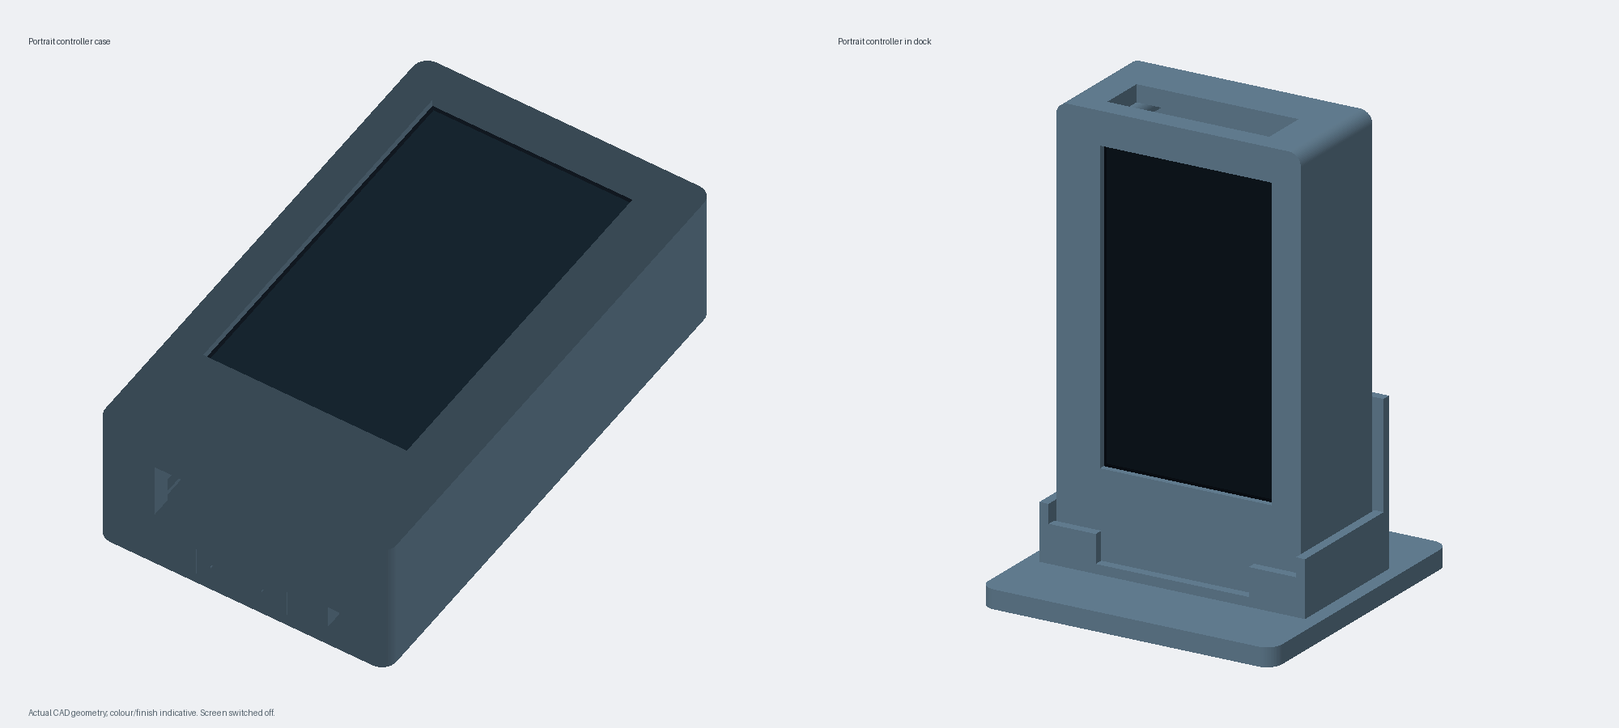
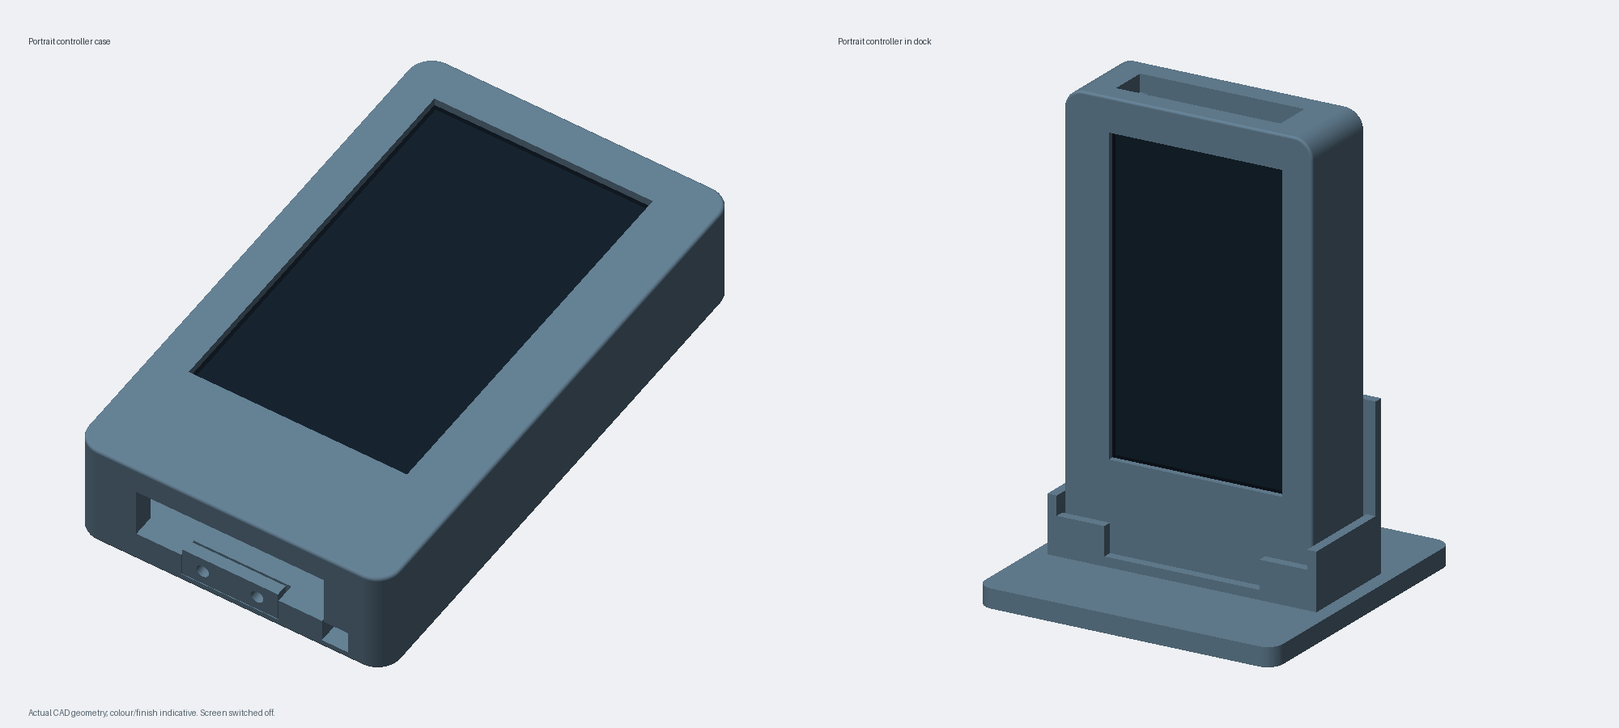
Slim portrait enclosure with rounded raised battery compartment and relieved dock

Changed region(s): [[0.031, 0.0622, 0.465, 0.9333], [0.62, 0.0933, 0.868, 0.84], [0.744, 0.8089, 0.775, 0.84]]

diff --git a/hardware/enclosure/geometry.py b/hardware/enclosure/geometry.py
@@ -6,23 +6,27 @@ All standalone parts are exported in their flat print orientations.
 """
 import cadquery as cq
 
-W, H, DEPTH = 80, 138, 39
+W, H, DEPTH = 80, 138, 28
+FRONT_DEPTH = 20
+MAX_DEPTH = 39
+BACK_OFFSET = MAX_DEPTH - DEPTH
+BATTERY_X, BATTERY_Y = 4, -12
 BOARD_Y = 10  # Extra space below the board for an internal USB plug/pigtail.
-SCREWS = [(x, y) for x in (-36, 36) for y in (-65, 65)]
+SCREWS = [(x, y) for x in (-36, 36) for y in (-63, 63)]
 CONTACT_X = (-7, 7)
-CONTACT_Z = 32.0
-CONTACT_INSERT_Z = 28.2
+CONTACT_Z = 22.0
+CONTACT_INSERT_Z = 18.2
 DOCK_FLOOR = 6
 DOCK_SLOT_WIDTH = W + 0.8
 DOCK_SLOT_DEPTH = DEPTH + 0.8
-KEY_X, KEY_Z = 27, 30
+KEY_X, KEY_Z = 27, 23
 
 
 def box(w, h, d, z=0, x=0, y=0):
     return cq.Workplane('XY').box(w, h, d, centered=(True, True, False)).translate((x, y, z))
 
 
-def rounded(w, h, d, z=0, r=4):
+def rounded(w, h, d, z=0, r=6):
     return box(w, h, d, z).edges('|Z').fillet(r)
 
 
@@ -31,7 +35,8 @@ def hole(x, y, r, z, d):
 
 
 # Screen front seats at Z=2.3, including 0.3 mm soft tape on the 2 mm bezel.
-front = rounded(W, H, 23).cut(rounded(69.3, 127.1, 23, 2, r=0.6))
+front = rounded(W, H, FRONT_DEPTH).faces('<Z').edges().fillet(0.8)
+front = front.cut(rounded(69.3, 127.1, FRONT_DEPTH, 2, r=0.6))
 front = front.cut(box(56, 97, 4, -1, x=-2.4, y=BOARD_Y))
 # Short-edge service openings. Bottom has a 20 mm internal plug/cable bay;
 # top retains access to the opposite peripheral connectors. Long sides are closed.
@@ -40,16 +45,23 @@ front = front.cut(box(53, 12, 16, 7, x=1, y=67))
 for x, y in SCREWS:
     front = front.cut(hole(x, y, 1.25, 11, 14))
 
-back = rounded(W, H, 2)
-rim = rounded(68.5, 126.3, 1.2, 2, r=0.6).cut(rounded(64.5, 122.3, 2, 1.9, r=0.6))
-rim = rim.cut(box(60, 15, 5, 1, y=-61)).cut(box(60, 15, 5, 1, y=61))
+# Back print coordinates: battery compartment's outside flat face on the bed.
+# The main cover is raised 11 mm; support beneath its projecting skirt is needed.
+back = rounded(W, H, 2, BACK_OFFSET).faces('<Z').edges().fillet(0.8)
+back = back.cut(box(48.8, 42.8, 4, BACK_OFFSET-1, x=BATTERY_X, y=-BATTERY_Y))
+bump = rounded(54, 48, BACK_OFFSET+2, r=5).faces('<Z').edges().fillet(1.2)
+bump = bump.translate((BATTERY_X, -BATTERY_Y, 0))
+bump = bump.cut(box(48.8, 42.8, BACK_OFFSET+2, 2, x=BATTERY_X, y=-BATTERY_Y))
+back = back.union(bump)
+rim = rounded(68.5, 126.3, 1.2, BACK_OFFSET+2, r=0.6).cut(rounded(64.5, 122.3, 2, BACK_OFFSET+1.9, r=0.6))
+rim = rim.cut(box(60, 15, 5, BACK_OFFSET+1, y=-61)).cut(box(60, 15, 5, BACK_OFFSET+1, y=61))
 back = back.union(rim)
 for x, y in SCREWS:
-    back = back.cut(hole(x, y, 1.7, -1, 5)).cut(hole(x, y, 3.1, -0.1, 1.1))
+    back = back.cut(hole(x, y, 1.7, BACK_OFFSET-1, 5)).cut(hole(x, y, 3.1, BACK_OFFSET-.1, 1.1))
 # Back is flipped about X for assembly: print Y is the negative of assembled Y.
 for x in (-30, 30):
     for board_y in (-49 + BOARD_Y, 49 + BOARD_Y):
-        back = back.union(hole(x, -board_y, 2.75, 2, 22))
+        back = back.union(hole(x, -board_y, 2.75, BACK_OFFSET+2, DEPTH-17))
 
 tray = box(48, 42, 2).union(box(48, 42, 12, 2).cut(box(44, 38, 13, 2)))
 tray = tray.cut(box(12, 8, 8, 7, y=20))  # Lead notch towards lower USB bay.
@@ -58,11 +70,12 @@ for x in CONTACT_X:
     insert = insert.cut(cq.Workplane('XZ').center(x, 3.8).circle(1.6).extrude(8, both=True))
 blank = box(24.6, 3, 7.6)
 
-ext = rounded(W, H, 14).cut(rounded(69.3, 127.1, 16, -1, r=0.6))
+ext = rounded(W, H, DEPTH-FRONT_DEPTH-2).cut(rounded(69.3, 127.1, 16, -1, r=0.6))
 # Contacts are on the bottom short face, behind the USB service opening.
-ext = ext.cut(box(25, 10, 8, 5, y=-H/2))
+front = front.cut(box(25, 10, 8, CONTACT_INSERT_Z-.2, y=-H/2))
+ext = ext.cut(box(25, 10, 8, CONTACT_INSERT_Z-.2-FRONT_DEPTH, y=-H/2))
 # Asymmetric key beside the contacts, preventing reversed insertion.
-ext = ext.cut(box(6.8, 10, 6.8, KEY_Z-23-3.4, x=KEY_X, y=-H/2))
+ext = ext.cut(box(6.8, 10, 6.8, KEY_Z-FRONT_DEPTH-3.4, x=KEY_X, y=-H/2))
 for x, y in SCREWS:
     ext = ext.cut(hole(x, y, 1.7, -1, 16))
 
@@ -77,7 +90,11 @@ front_wall = front_wall.cut(box(50, 8, 9, 9, y=-wall_y))
 rear_wall = box(wall_w, 3, 52, DOCK_FLOOR, y=wall_y)
 # Clearance for lower rear M3 button heads: counterbores may leave 0.7 mm protruding.
 for x in (-36, 36):
-    rear_wall = rear_wall.cut(box(8, 2, 9, DOCK_FLOOR, x=x, y=20.5))
+    rear_wall = rear_wall.cut(box(8, 2, 9, DOCK_FLOOR, x=x, y=DEPTH/2+1))
+# Support on two side rails, clearing the raised battery compartment and its tray.
+# Battery bump bottom is dock Z=39: relief starts 0.4 mm below it.
+rear_wall = rear_wall.cut(box(55, 8, 60, H/2+DOCK_FLOOR+BATTERY_Y-24-.4,
+                                    x=-BATTERY_X, y=wall_y))
 dock = dock.union(front_wall).union(rear_wall)
 for x in (-wall_x, wall_x):
     dock = dock.union(box(3, DOCK_SLOT_DEPTH+6, 18, DOCK_FLOOR, x=x))
@@ -99,15 +116,15 @@ def manufacturer_to_case(model):
 
 def assembled_parts(include_insert=False):
     result = {'front': front,
-              'extension': ext.translate((0, 0, 23)),
-              'back': back.rotate((0, 0, 0), (1, 0, 0), 180).translate((0, 0, DEPTH)),
-              'battery_tray': tray.rotate((0, 0, 0), (1, 0, 0), 180).translate((0, BOARD_Y, 37))}
+              'extension': ext.translate((0, 0, FRONT_DEPTH)),
+              'back': back.rotate((0, 0, 0), (1, 0, 0), 180).translate((0, 0, MAX_DEPTH)),
+              'battery_tray': tray.rotate((0, 0, 0), (1, 0, 0), 180).translate((BATTERY_X, BATTERY_Y, MAX_DEPTH-2))}
     if include_insert:
         result['contact_insert'] = insert.translate((0, -H/2+1.5, CONTACT_INSERT_Z))
     return result
 
 
 def case_to_dock(shape):
-    # Transform (X,Y,Z) to (-X, Z-19.5, Y+75): a rigid rotation, not a reflection.
+    # Transform (X,Y,Z) to (-X, Z-DEPTH/2, Y+75): a rigid rotation, not a reflection.
     return (shape.rotate((0, 0, 0), (0, 1, 1), 180)
             .translate((0, -DEPTH/2, H/2+DOCK_FLOOR)))

diff --git a/hardware/enclosure/test_geometry.py b/hardware/enclosure/test_geometry.py
@@ -2,14 +2,14 @@
 import unittest
 import cadquery as cq
 from geometry import (parts, assembled_parts, case_to_dock, manufacturer_to_case,
-                      dock, CONTACT_X, CONTACT_Z, H, DEPTH, DOCK_FLOOR)
+                      dock, CONTACT_X, CONTACT_Z, H, DEPTH, DOCK_FLOOR, MAX_DEPTH, BATTERY_X, BATTERY_Y, box, SCREWS)
 
 
 class PortraitGeometryTests(unittest.TestCase):
     def test_portrait_bounds_and_mounting_transform(self):
         bounds=parts['01_front'].val().BoundingBox()
-        self.assertAlmostEqual(bounds.xlen,80)
-        self.assertAlmostEqual(bounds.ylen,138)
+        self.assertAlmostEqual(bounds.xlen,80,places=5)
+        self.assertAlmostEqual(bounds.ylen,138,places=5)
         # Four official metal boss rear centres map onto portrait support tips.
         for x in (-48.95,49.05):
             for y in (-32.47,27.53):
@@ -19,9 +19,23 @@ class PortraitGeometryTests(unittest.TestCase):
                 self.assertTrue(any(abs(actual.y-v)<1e-6 for v in (-39,59)))
                 self.assertAlmostEqual(actual.z,14.8)
 
+    def test_battery_pouch_and_separate_parts_have_clearance(self):
+        assembled=assembled_parts(include_insert=True)
+        # Full assumed battery including allowance: no shell/tray/dock interference.
+        battery=box(40,34,10,MAX_DEPTH-14,x=BATTERY_X,y=BATTERY_Y).val()
+        for name,part in assembled.items():
+            self.assertLess(battery.intersect(part.val()).Volume(),1e-4,name)
+        self.assertLess(case_to_dock(battery).intersect(dock.val()).Volume(),1e-4)
+        names=list(assembled)
+        for i,name in enumerate(names):
+            for other in names[i+1:]:
+                self.assertLess(assembled[name].val().intersect(assembled[other].val()).Volume(),1e-4,
+                                f'{name} vs {other}')
+        self.assertAlmostEqual(assembled['back'].val().BoundingBox().zmax,MAX_DEPTH,places=5)
+
     def test_lower_screw_heads_clear_rear_cradle_wall(self):
         for x in (-36,36):
-            head=(cq.Workplane('XZ').center(x,10).circle(3).extrude(-.7)
+            head=(cq.Workplane('XZ').center(x,H/2+DOCK_FLOOR+min(y for _,y in SCREWS)).circle(3).extrude(-.7)
                   .translate((0,DEPTH/2,0)).val())
             self.assertLess(head.intersect(dock.val()).Volume(),1e-4)
 

diff --git a/hardware/enclosure/render.py b/hardware/enclosure/render.py
@@ -2,7 +2,7 @@
 from pathlib import Path
 import numpy as np
 from PIL import Image, ImageDraw
-from geometry import BOARD_Y, H, DEPTH, CONTACT_INSERT_Z, DOCK_FLOOR
+from geometry import BOARD_Y, H, DEPTH, CONTACT_INSERT_Z, DOCK_FLOOR, FRONT_DEPTH, MAX_DEPTH
 
 
 def read_stl(path):
@@ -37,7 +37,9 @@ def rasterize(items, eye, size=(1000, 850)):
         coords[:,:,1] = height/2 - (coords[:,:,1]-centre[1])*scale
         normal = np.cross(vertices[:,1]-vertices[:,0], vertices[:,2]-vertices[:,0])
         normal /= np.maximum(np.linalg.norm(normal,axis=1)[:,None],1e-12)
-        shades = .55+.45*np.maximum(normal @ light, 0)
+        # Preview coordinate reflections reverse winding; shade the visible side.
+        normal *= np.where(normal[:,2] < 0, -1, 1)[:,None]
+        shades = .40+.60*np.maximum(normal @ light, 0)
         for tri, shade in zip(coords, shades):
             x0=max(0,int(np.floor(tri[:,0].min()))); x1=min(width-1,int(np.ceil(tri[:,0].max())))
             y0=max(0,int(np.floor(tri[:,1].min()))); y1=min(height-1,int(np.ceil(tri[:,1].max())))
@@ -60,8 +62,8 @@ def render_all(output):
     output=Path(output); body=[]
     for name in ('01_front','02_rear_extension','03_back','05_contact_insert'):
         a=read_stl(output/(name+'.stl'))
-        if name=='02_rear_extension': a[:,:,2]+=23
-        if name=='03_back': a[:,:,1]*=-1; a[:,:,2]=DEPTH-a[:,:,2]
+        if name=='02_rear_extension': a[:,:,2]+=FRONT_DEPTH
+        if name=='03_back': a[:,:,1]*=-1; a[:,:,2]=MAX_DEPTH-a[:,:,2]
         if name=='05_contact_insert': a[:,:,1]+=-H/2+1.5; a[:,:,2]+=CONTACT_INSERT_Z
         body.append((a, [105,133,153]))
     body.append((rectangle(-33.9,33.9,-53.05+BOARD_Y,53.05+BOARD_Y,2.3), [18,25,33]))
@@ -91,6 +93,6 @@ def render_all(output):
     items=[(read_stl(output/(name+'.stl')), [105,133,153]) for name in ('01_front','02_rear_extension','03_back')]
     # Explode along the case depth, with correct assembly orientation.
     items[1][0][:,:,2]+=32
-    items[2][0][:,:,1]*=-1; items[2][0][:,:,2]=60-items[2][0][:,:,2]
+    items[2][0][:,:,1]*=-1; items[2][0][:,:,2]=MAX_DEPTH+30-items[2][0][:,:,2]
     for vertices,_ in items:vertices[:,:,2]*=-1
     rasterize(items,[.65,-1,1.2]).save(output/'exploded.png')

diff --git a/hardware/enclosure/build.py b/hardware/enclosure/build.py
@@ -9,7 +9,7 @@ import urllib.request
 import zipfile
 import cadquery as cq
 import numpy as np
-from geometry import parts, assembled_parts, manufacturer_to_case, case_to_dock, dock, DEPTH, H
+from geometry import parts, assembled_parts, manufacturer_to_case, case_to_dock, dock, DEPTH, H, MAX_DEPTH
 from render import read_stl, render_all
 
 ROOT=Path(__file__).resolve().parent
@@ -81,13 +81,13 @@ def main():
     cq.exporters.export(docked,str(out/'docked_assembly.step'))
     dock_volume=sum(case_to_dock(p).val().intersect(dock.val()).Volume() for p in assembled.values())
     if dock_volume>1e-4: raise ValueError(f'Case collides with dock: {dock_volume} mm3')
-    (out/'dock_fit_check.json').write_text(json.dumps({'collision_volume_mm3':round(dock_volume,6),'portrait_case_mm':[80,H,DEPTH]},indent=2)+'\n')
+    (out/'dock_fit_check.json').write_text(json.dumps({'collision_volume_mm3':round(dock_volume,6),'portrait_case_mm':[80,H,DEPTH], 'max_battery_depth_mm':MAX_DEPTH},indent=2)+'\n')
     (out/'mesh_check.json').write_text(json.dumps(checks,indent=2)+'\n')
     if args.check_board or args.board_archive: check_board(out,args.board_archive)
     render_all(out)
     for name in ('ASSEMBLY.md','README.md','geometry.py','build.py','render.py','test_geometry.py','requirements.txt'):
         shutil.copyfile(ROOT/name,out/name)
-    (out/'README.md').write_text((out/'README.md').read_text().replace('previews/assembled.png','assembled.png'))
+    (out/'README.md').write_text((out/'README.md').read_text().replace('previews/',''))
     shutil.copytree(ROOT/'reference',out/'reference',dirs_exist_ok=True)
     (out/'SHA256SUMS').write_text(''.join(f'{hashlib.sha256(p.read_bytes()).hexdigest()}  {p.relative_to(out)}\n' for p in sorted(out.rglob('*')) if p.is_file() and p.name not in ('SHA256SUMS','print-package.zip','print-package.zip.sha256')))
     with zipfile.ZipFile(out/'print-package.zip','w',zipfile.ZIP_DEFLATED) as archive:

diff --git a/hardware/enclosure/ASSEMBLY.md b/hardware/enclosure/ASSEMBLY.md
@@ -4,9 +4,9 @@
 
 Print one each of `01_front.stl`, `02_rear_extension.stl`, `03_back.stl` and `04_battery_tray.stl`. Choose **one** of `05_contact_insert.stl` (contact charging) or `06_contact_blank.stl` (USB-only). Add `08_dock.stl` for the portrait cradle. Seven alternative STL files are supplied; a complete docked build needs six printed parts.
 
-All units mm; **100% scale**. PETG, 0.20 mm layers, 4 perimeters, 5 top/bottom layers, 25–30% infill, tolerance target ±0.2 mm. Keep front, extension, back, tray and dock in their supplied flat orientations, largest flat face on bed. Rotate the contact/blank insert 90° about X to put its broad 24.6 × 7.6 mm face on the bed. No supports should be required in those orientations. Use a brim for the rear cover if needed: its four tall supports must stay straight. Deburr slide fits, contact holes and screw pilots; do not automatically rescale.
+All units mm; **100% scale**. PETG, 0.20 mm layers, 4 perimeters, 5 top/bottom layers, 25–30% infill, tolerance target ±0.2 mm. Keep front, extension, back, tray and dock in their supplied flat orientations, largest flat face on bed. Rotate the contact/blank insert 90° about X to put its broad 24.6 × 7.6 mm face on the bed. Only the rear cover needs supports: place the battery compartment’s flat outside face on the bed and support the underside of the main cover skirt, 11 mm above the bed. Use removable support interface (or soluble support); keep supports away from the battery pocket and support tips. Remove supports carefully and check the 2 mm panel before assembly. Other parts need no supports. Use a brim for the rear cover if needed: its four board supports must stay straight. Deburr slide fits, contact holes and screw pilots; do not automatically rescale.
 
-Order text: “Please print the six selected STL files in PETG, one each, at 100% scale in mm, 0.2 mm layers, 4 walls and 25–30% infill. Orient as the assembly guide specifies and preserve hole positions. Please quote the dock separately.”
+Order text: “Please print the six selected STL files in PETG, one each, at 100% scale in mm, 0.2 mm layers, 4 walls and 25–30% infill. Orient as the assembly guide specifies, support the rear-cover skirt, and preserve hole positions. Please quote the dock separately.”
 
 `case_assembly.step` and `docked_assembly.step` are assembled viewing references, **not** single parts to print. Editable per-part STEP files are also included.
 
@@ -26,29 +26,33 @@ Model-to-case transform: translate X by −0.05 and Y by +2.47; reflect Z and tr
 
 | Item | Dimensions / relationship |
 |---|---|
-| Portrait enclosure | **80 × 138 × 39 mm** (width × height × depth) |
-| Depth stack | Front 23 + rear extension 14 + back 2 mm |
+| Portrait enclosure | **80 × 138 × 28 mm** main body; **39 mm** maximum at battery compartment |
+| Depth stack | Front 20 + rear extension 6 + back 2 mm; local battery bulge +11 mm |
 | Screen cavity | 69.3 × 127.1 mm, including lower cable bay |
 | Display opening | 56 × 97 mm, centre X −2.4, Y +10 |
 | Lower USB bay | Approximately 20 mm of internal extension below the board; short-edge service opening 48 mm wide |
 | Long edges | Closed; service openings are on top and bottom short edges |
+| Battery compartment | 54 × 48 mm rounded footprint, centre X +4 / Y −12, 11 mm rear projection |
+| Rounded edges | Case plan corners R6; exposed front/back perimeter R0.8; battery compartment corners R5 and outer edge R1.2 |
 | Battery tray inside | 44 × 38 × 12 mm; assumed 103440 pack approximately 40 × 34 × 10 mm |
 | Portrait dock base | **96 × 96 mm**, 6 mm floor; overall height 58 mm |
-| Dock slot | 80.8 mm wide × 39.8 mm deep; case bottom rests at dock Z=6 |
-| Rear cradle support | 52 mm above floor; front support has a USB service relief; rear has lower screw-head clearance pockets |
+| Dock slot | 80.8 mm wide × 28.8 mm deep; case bottom rests at dock Z=6 |
+| Rear cradle support | 52 mm above floor; front support has a USB service relief; rear has lower screw-head clearance pockets and a central battery relief; two side rails support the main case |
 | Contacts | Bottom short edge behind the USB opening, centres 14 mm apart |
 | Dock key | Asymmetric notch and peg beside contacts; 0.4 mm side/depth clearance |
+
+The main case is 11 mm (28%) thinner than the previous 39 mm constant-depth version. The battery remains in a protected local compartment rather than forcing that depth across the entire cover. The lower/offset placement shortens its route towards the lower-side PH2.0 header; lead routing and the actual connector must be confirmed on the real board. The battery tray notch opens towards that lower region. The back skirt needs print supports, as described above.
 
 There is no separate board carrier or loose mounting spacer: the rear cover's four supports bear on soft pads on the metal bosses. The taller lower bezel houses the USB pigtail/cable bay. This is a fully printed enclosure; the earlier wooden enclosure concept is not part of these files.
 
 ## Assembly: USB-only dry fit first
 
-1. Dry-fit plastic parts without electronics. Four **M3 × 25 mm** screws pass through the back and extension into front 2.5 mm pilots. Tap carefully for machine screws or use appropriate plastic-thread screws. Use low-profile button heads, at most 6 mm diameter and at most 0.7 mm protrusion after the shallow counterbore. The dock has two lower rear screw-head relief pockets; larger heads need a source adjustment. Do not overtighten.
+1. Dry-fit plastic parts without electronics. Four **M3 × 16 mm** screws pass through the back and extension into front 2.5 mm pilots. Tap carefully for machine screws or use appropriate plastic-thread screws. Use low-profile button heads, at most 6 mm diameter and at most 0.7 mm protrusion after the shallow counterbore. The dock has two lower rear screw-head relief pockets; larger heads need a source adjustment. Do not overtighten.
 2. Apply approximately 0.3 mm soft tape to the front bezel bearing area, outside the visible screen. Seat the glass with USB sockets down and the model orientation above. Protect flex cables; check the window alignment.
 3. Put approximately 0.2 mm soft pads on the four rear support tips. They must meet the metal bosses, not components. Front tape plus these pads account for 0.5 mm combined clearance. Stop if the glass is stressed or the back bows; adjust only after inspecting fit.
-4. Attach the battery tray to the inside rear cover with thin removable tape, centred at **assembled X=0, Y=+10**. The tray's cable notch faces the lower USB bay after the back is flipped into its assembled position. The standalone print's notch faces +Y. Keep wires clear of the supports and screw paths. Measure the battery including protection circuit and wrapping; do not squeeze or pierce the pouch. Secure it with removable tape on a broad face.
+4. Attach the battery tray within the raised compartment with thin removable tape on its sidewalls (0.4 mm clearance per side), keeping its outside base flush against the inside compartment roof, centred at **assembled X=+4, Y=−12, tray outside base Z=37**. The tray's cable notch faces the lower USB bay after the back is flipped into its assembled position. The standalone print's notch faces +Y. Keep wires clear of the supports and screw paths. Measure the battery including protection circuit and wrapping; do not squeeze or pierce the pouch. Secure it with removable tape on a broad face.
 5. Verify a suitable 3.7 V single-cell battery, its connector polarity, protection and permitted charging current. The board specifies 580 mA charging. A PH2.0 plug fitting is not proof of correct polarity. Connect the battery only to the board's battery connector.
-6. Choose blank or contact insert. It fits the bottom extension opening at **X=0, Y=−67.5, Z=28.2** (outer bottom face Y=−69). Use insulating adhesive to retain it; do not obstruct screws or contacts.
+6. Choose blank or contact insert. It fits the bottom extension opening at **X=0, Y=−67.5, Z=18.2** (outer bottom face Y=−69). Use insulating adhesive to retain it; do not obstruct screws or contacts.
 7. Close the case, test normal USB power/charging and confirm portrait screen/touch operation before adding dock wiring.
 
 ## Optional charging contacts and internal USB pigtail
@@ -57,16 +61,20 @@ The cradle is plastic only. Required hardware: two smooth conductive contacts (3
 
 An internal plug connects the board's verified USB power input to the contacts on the same lower short edge. Use a small plug body **no longer than about 16 mm, no wider than 14 mm and no taller than 8 mm**, leaving additional wire-bend space inside the approximately 20 mm bay. Prefer a low-profile plug with a flexible lead or rearward cable exit. The CAD checks a 14 × 20 × 8 mm plug-plus-routing envelope at both socket positions. This is a clearance specification, not a claim that any commercially sold USB plug fits. Select/measure the actual pigtail before ordering. Direct wiring requires separately verifying the board's USB input schematic/pads.
 
-Case contact stem centres: **X=−7 / +7, Y=−69, Z=32**. Keep metal heads flush with the bottom surface; adjust dock bearing clearance if heads protrude. Route insulated wires through the lower bay towards the rear contacts and secure them. Contact holes are mounting pilots: adapt the source to the purchased components if necessary.
+Case contact stem centres: **X=−7 / +7, Y=−69, Z=22**. Keep metal heads flush with the bottom surface; adjust dock bearing clearance if heads protrude. Route insulated wires through the lower bay towards the rear contacts and secure them. Contact holes are mounting pilots: adapt the source to the purchased components if necessary.
 
-The rigid case-to-dock transform is **(X,Y,Z) → (−X, Z−19.5, Y+75)**. Thus case left/right swap when viewed from the dock front. Dock bores are **X=−7 / +7, Y=+12.5**, with bearing floor Z=6. The dock key is at X=−27, Y=+10.5; its matching case notch is at X=+27, Y=−69, Z=30. Use these coordinates and continuity checks to establish polarity; do not infer it from a left/right drawing alone.
+The rigid case-to-dock transform is **(X,Y,Z) → (−X, Z−14, Y+75)**. Thus case left/right swap when viewed from the dock front. Dock bores are **X=−7 / +7, Y=+8**, with bearing floor Z=6. The dock key is at X=−27, Y=+9; its matching case notch is at X=+27, Y=−69, Z=23. Use these coordinates and continuity checks to establish polarity; do not infer it from a left/right drawing alone.
 
 Choose pin travel and installation height to give roughly **0.5–1 mm spring compression** when seated. Secure spring-pin barrels and wires; the underbase cable groove leads to the rear. Add feet providing at least 2 mm cable clearance. A USB-C input receptacle needs a proper 5 V sink module with CC resistors. The mechanical design does not supply electronics or USB negotiation components.
 
 Feed **USB VBUS 5 V and GND only**, never BAT or 3V3. Leave the second board USB power input disconnected during dock use unless the schematic has been checked for backfeed. Test docking and keying unpowered, measure correct 5 V at the internal plug, then connect the board. The key rejects reversed insertion; it does not replace electrical polarity checking. Do not expose battery terminals as docking contacts.
 
+## Ventilation and heat check
+
+The back is mostly solid, including the battery compartment. The existing top/bottom service openings provide air paths; additional ventilation slots are not included without temperature measurements. Check temperatures during sustained docked charging with the display and Wi-Fi active, following the actual battery’s charging-temperature limits. Keep the pouch clear of components and do not cover the service openings with adhesive. CAD clearance does not establish thermal suitability.
+
 ## Validation and limits
 
-`mesh_check.json`: solid validity and closed, manifold exported STL meshes. `collision_check.json`: manufacturer-board clearance and the two USB plug/routing envelopes (when the source-model check is run). `dock_fit_check.json`: assembled case vs cradle clearance. `test_geometry.py`: portrait mount transform, contact alignment and reversed-insertion rejection. PNGs are rendered from exported STL geometry, with the screen switched off and indicative colour/finish.
+`mesh_check.json`: solid validity and closed, manifold exported STL meshes. `collision_check.json`: manufacturer-board clearance and the two USB plug/routing envelopes (when the source-model check is run). `dock_fit_check.json`: assembled case vs cradle clearance. `test_geometry.py`: portrait mount transform, contact alignment, reversed-insertion rejection, screw-head clearance, battery-pouch clearance and separate assembled-part interference. PNGs are rendered from exported STL geometry, with the screen switched off and indicative colour/finish.
 
 These are print-ready files for a **first physical fit build**, not a physically tested production product. Verify your board revision, battery measurements, pigtail body, chosen contacts and spring travel before commissioning final assembly. A successful CAD build does not validate those purchased parts or charging behaviour.

diff --git a/hardware/enclosure/README.md b/hardware/enclosure/README.md
@@ -6,13 +6,15 @@ Mechanical design for the **original Waveshare ESP32-S3-Touch-LCD-4.3**, with sp
 
 ![Assembled enclosure and dock](previews/assembled.png)
 
+![Raised rear battery compartment](previews/rear.png)
+
 ## Branch scope
 
 This hardware branch targets `main` independently of PR20 (`feature/rich-portrait-ui`). It does not contain the portrait firmware changes. The mechanical orientation supports the portrait UI; firmware rotation and touch alignment still need device acceptance.
 
 ## Source and deliverables
 
-- `geometry.py`: editable CadQuery source for the front, rear extension, rear cover, battery tray, contact/blank inserts and keyed upright portrait dock. Dimensions are in mm. The enclosure is 80 × 138 × 39 mm, including a lower USB pigtail/cable bay. Rear supports bear on metal mounting bosses; no separate board spacers are required.
+- `geometry.py`: editable CadQuery source for the front, rear extension, rear cover, battery tray, contact/blank inserts and keyed upright portrait dock. Dimensions are in mm. The enclosure is 80 × 138 × 28 mm, with a local battery compartment reaching 39 mm, including a lower USB pigtail/cable bay. Rear supports bear on metal mounting bosses; no separate board spacers are required.
 - `build.py`: exports STL/STEP files, checks solid validity and closed meshes, checks case-to-dock clearance and optionally checks clearance against the manufacturer STEP, renders PNGs and packages files with checksums.
 - `render.py`: headless software depth-buffer renderer using actual STL geometry; no GPU, desktop, Blender or display server required.
 - [ASSEMBLY.md](ASSEMBLY.md): documented dimensions, print-service instructions, assembly and optional charging hardware/wiring.
@@ -55,4 +57,4 @@ Official archive: https://files.waveshare.com/wiki/ESP32-S3-Touch-LCD-4.3/ESP32-
 
[1 lines of base64/hex data omitted]
 
-Archive contains `esp32-s3-touch-lcd-4_3.stp`, dated 2023-12-13, with 693 solids. Mounting pattern 98 × 60 mm; model's total depth 16.90 mm. Measured details are in ASSEMBLY.md. The portrait enclosure is 80 × 138 × 39 mm. The tray assumes an approximately 40 × 34 × 10 mm pack and provides a 44 × 38 × 12 mm cavity.
+Archive contains `esp32-s3-touch-lcd-4_3.stp`, dated 2023-12-13, with 693 solids. Mounting pattern 98 × 60 mm; model's total depth 16.90 mm. Measured details are in ASSEMBLY.md. The portrait enclosure is 80 × 138 × 28 mm, with a local battery compartment reaching 39 mm. The rounded 54 × 48 mm battery compartment projects 11 mm beyond the main back. Its centre is X=+4, Y=−12, towards the lower battery-header region; the dock supports the case either side of this compartment. Case corner radius is 6 mm, with 0.8 mm exposed edge rounding. The tray assumes an approximately 40 × 34 × 10 mm pack and provides a 44 × 38 × 12 mm cavity.
